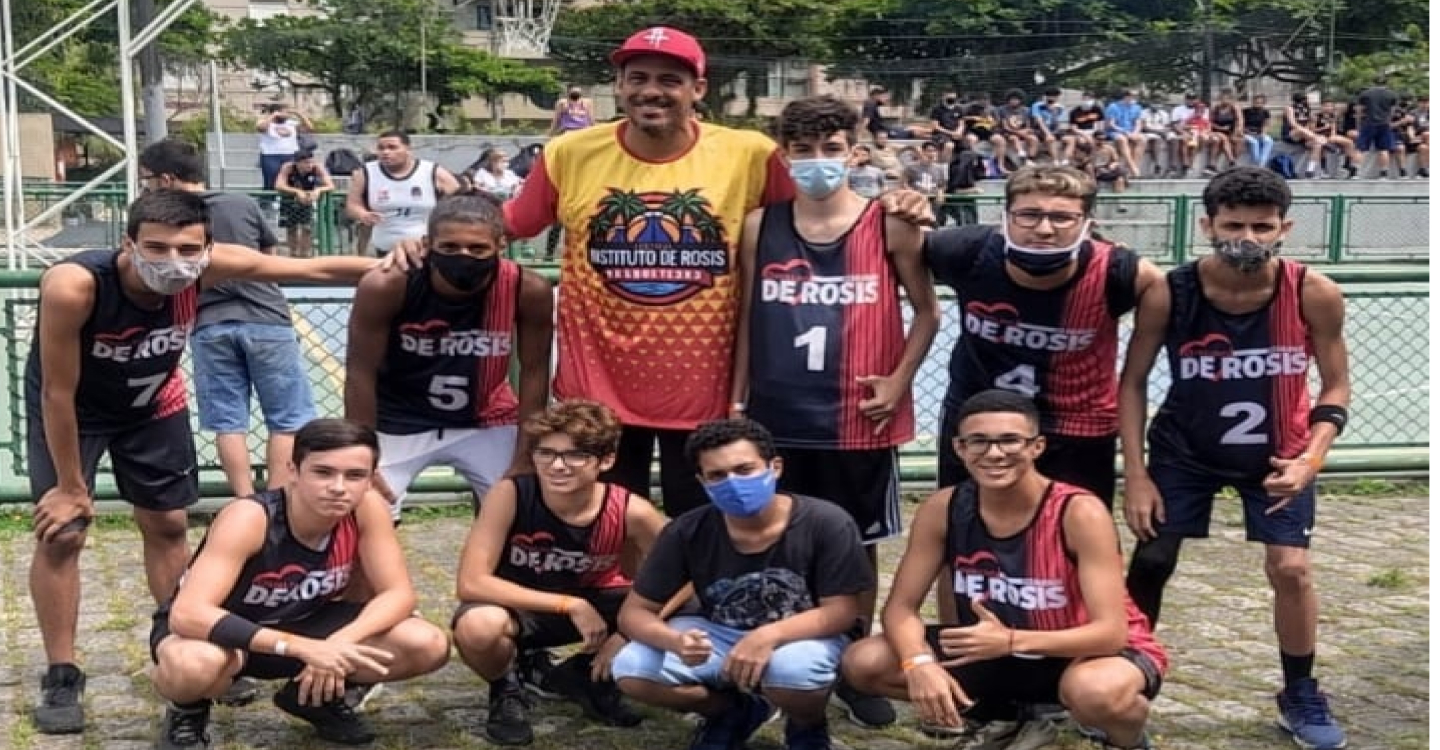
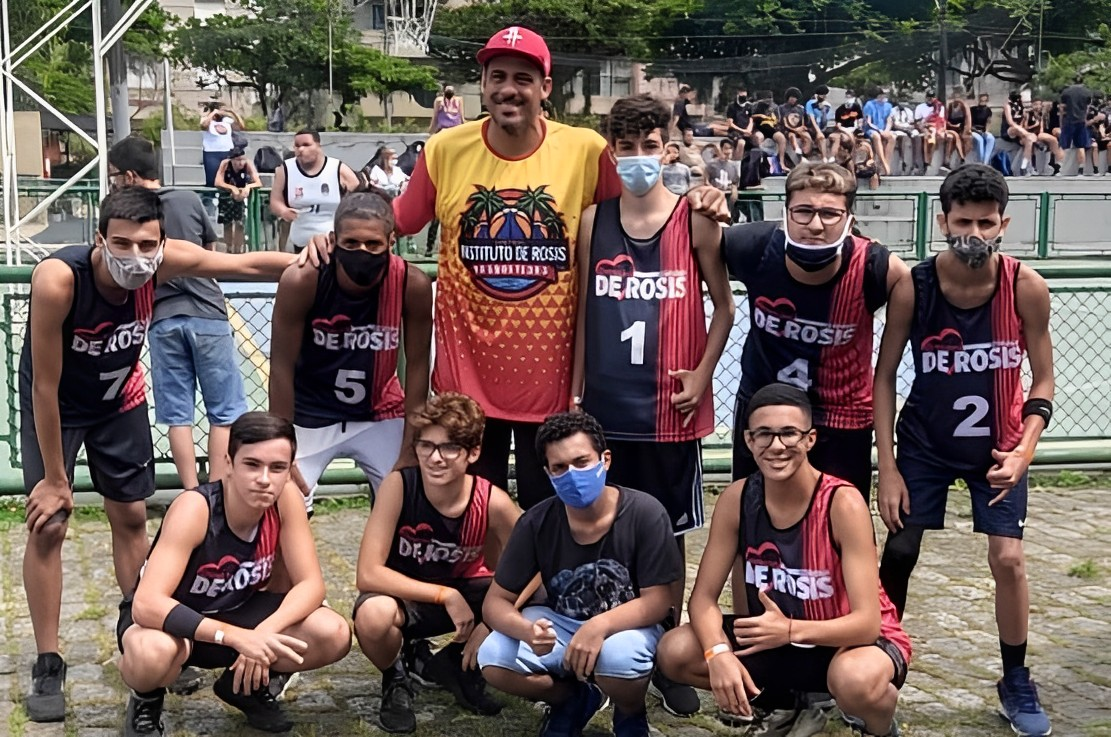
alinhamento das imagens, ajeitando detalhes

diff --git a/style-home.css b/style-home.css
@@ -63,10 +63,10 @@ p{
 .carousel-item{
   background: #323232;
   border-radius: 1rem;
-  height: 20rem;
+  height: 25rem;
   flex-shrink: 0;
-
 }
+
 .carousel-item img{
   width: 100%;
   height: 100%;
@@ -96,7 +96,6 @@ p{
   scale: -1;
   left: 0;
 }
-
 
 .btn-login {
     display: flex;
@@ -213,50 +212,75 @@ justify-content: space-between;
 align-items: left;
 margin-left: 140px;
 margin-right: 110px;
+
 }
 
 .emissario{
   width: 500px;
   height: 500px;
   margin-top: 50px;
-
-
+  border-radius: 8px;
 }
+
+.emissario:hover {
+  box-shadow: 0 0 8px #e22f0b;
+  border: solid 1px #FF2A00;
+  transition: all 0.3s linear;
+}
+
 .basquete{
     width: 500px;
     height: 500px;
     margin-top: 50px;
+    border-radius: 8px;
+}
+
+
+.basquete:hover {
+  box-shadow: 0 0 8px #e22f0b;
+  border: solid 1px #FF2A00;
+  transition: all 0.3s linear;
 }
 
 .lio{
     width: 500px;
     height: 500px;
     margin-top: 50px;
+    border-radius: 8px;
+}
+
+.lio:hover {
+  box-shadow: 0 0 8px #e22f0b;
+  border: solid 1px #FF2A00;
+  transition: all 0.3s linear;
 }
 .bs{
  display: flex;
- margin-left: 110px;
+ margin-left: 210px;
 }
 
 .fp{
-width: 200px;
-height: 40px;
-margin-left: 1381px;
-margin-top: 50px;
-border: none;
-background-color:  #FF2A00;
+ width: 200px;
+ height: 40px;
+ margin-left: 1381px;
+ margin-top: 50px;
+ border: none;
+ background-color:  #FF2A00;
 font-family: 'Roboto';
-font-weight: 800;
-font-size: 26px;
-line-height: 100%;
-letter-spacing: -0.05em;
-margin-bottom: 150px;
-
+ font-weight: 800;
+ font-size: 26px;
+ line-height: 100%;
+ letter-spacing: -0.05em;
+ margin-bottom: 150px;
+ border-radius: 8px;
 }
+
 .fp:hover{
   cursor: pointer;
+  box-shadow: 0 0 8px #e22f0b;
+  border: solid 1px #FF2A00;
+  transition: all 0.3s linear;
 }
-
 
 
 /* PÓS SLIDER - FIM*/
@@ -276,7 +300,7 @@ img .loc{
   line-height: 59px;
   text-align: center;
   font-size: 55px ;
-  margin-left: 150px;
+  margin-left: 35px;
   line-height: 75px;
   letter-spacing: -0.05em;
 }
@@ -286,7 +310,7 @@ img .loc{
   position: absolute;
   padding: 8px;
   text-align: center;
-  margin-left: 632px;
+  margin-left: 690px;
   margin-top: 75px;
   margin-bottom: -115px;
   font-size: 21px;
@@ -297,8 +321,8 @@ img .loc{
 .p4{
   margin-top: 50px;
   position: absolute;
-  padding: 23px;
-  left: 675px;
+  padding: 17px;
+  margin-left: 694px;
   height: 200px;
   width: 508px;
   font-size: 20px;
@@ -307,11 +331,19 @@ img .loc{
   text-align: justify;
 }
 
-
-.img-explore2{
-  float: right;
- 
+.explore1{
+  display:inline-block;
+  margin-left: -85px;
+  margin-bottom: -4px;
 }
+
+.explore2{
+  float: right;
+  justify-content: left;
+  margin-bottom: -4px;
+  
+}
+
 .photos{
     display: flex;
 }
@@ -352,35 +384,6 @@ justify-content: center;
     margin-right: 105px;
     margin-bottom: 40px;
 }
-
-.rebo{
-  width:100px;
-  height: 100px;
-  border-radius: 15px;
-}
-.quadra{
-  font-family: "Roboto-Black";
-  font-weight: bold;
-  font-size: 18px;
-  text-align: center;
-  margin-right: -10px;
-  margin-left: -100px;
-}
-
-.skate{
-  width: 100px;
-  height: 100px;
-  border-radius: 15px;
-}
-
-.pista{
-  font-family: "Roboto-Flex";
-  font-weight: bold;
-  font-size: 18px;
-  text-align:center;
-  margin-left: -100px;
-}
-
 
 .buttons button:hover{
     cursor: pointer;

diff --git a/index.html b/index.html
@@ -164,8 +164,7 @@
         </div >
     </div>
     <div class="bs">
-        <button  class="fp" onclick="window.location.href='cadastro.html'">CADASTRAR</button>
-        
+        <button  class="fp" onclick="window.location.href='cadastro.html'">CADASTRAR</button>    
     </div>
 </div>
     </section>
@@ -174,15 +173,12 @@
     <div class="loc">
         <br>
         <h2 class="md">EXPLORE LOCAIS JUNTOS</h2>
-        <p class="p3">Adicione os seus locais favoritos e 
-          visite os locais favoritos dos seus amigos</p>
+        <p class="p3">Adicione os seus locais favoritos e os visite com seus amigos </p>
         <p class="p4">Seu skate, sua bola de basquete e sua tribo dos dois mundos estão esperando por você 
           e com a Uban Club vocês podem explorar, compartilhar e se juntarem nas quadras e picos 
           mais bem avaliados e recomendados para você e seu Clube</p>
-        <img src="./img/Img - Saindo da porta.png">
-        <div class="img-explore2">
-        <img src="./img/Img - Enterrada.png">
-      </div>
+        <img src="./img/Img - Saindo da porta.png" class="explore1">
+        <img src="./img/Img_enterrada.png" class="explore2">
     </div>
     </section> 
     <footer>
